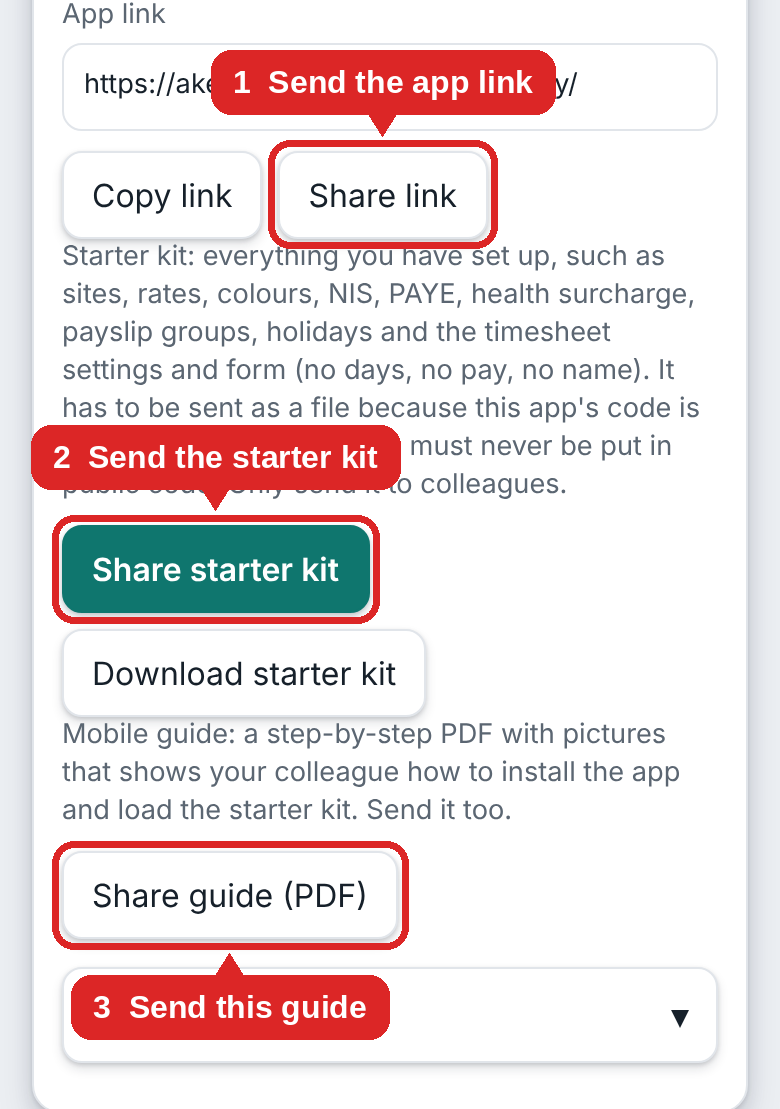
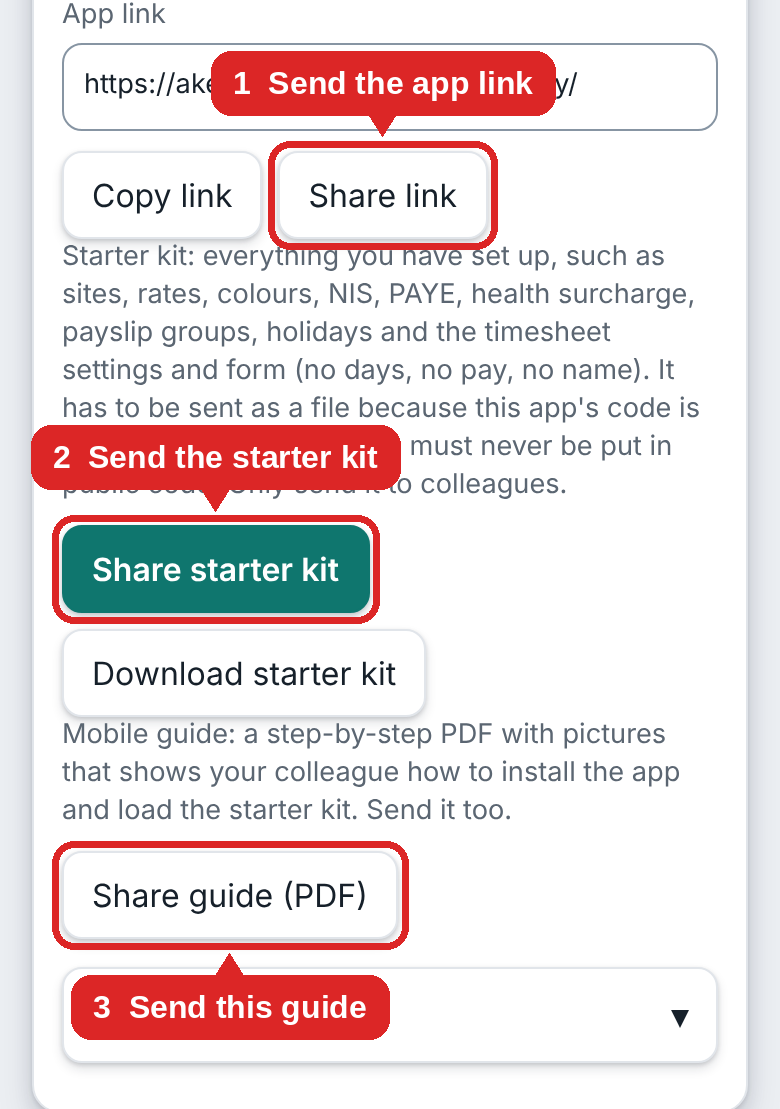
Settings: hide install help when installed, fold Share this app; no Close on day sheet; clearer pull handle (#24)
* Holiday / turnaround days read HOL/TAR in the list and on Home

* Timesheet: tick the sites and roles that go on the timesheet (and other jobs), edit the Client column text, press Save

* Menus pull down from their handle and title bar only; time picker uses AM/PM, hour and minute wheels (always saved as 24-hour)

* Payroll email says Good day; timesheet jobs show roles under each site, a read-out sentence, and a client-medic-everywhere option

Claude-Session: https://claude.ai/code/session_015B217MJCLoYGM2HCZFLF5v

* Time picker: smaller, softer time readout

Claude-Session: https://claude.ai/code/session_015B217MJCLoYGM2HCZFLF5v

* Share menu: starter kit tries .txt first (Android refuses .json); Send to payroll builds the file first, then opens the share menu with the email text

Claude-Session: https://claude.ai/code/session_015B217MJCLoYGM2HCZFLF5v

* Per-site 'Job requires lunch check' Yes/No (settings and Add site); No hides lunch options and pays the full time

Claude-Session: https://claude.ai/code/session_015B217MJCLoYGM2HCZFLF5v

* Colour picker: smaller round swatches in three rows, 12 more colours (existing sites keep theirs)

Claude-Session: https://claude.ai/code/session_015B217MJCLoYGM2HCZFLF5v

* Send to payroll: Download and share in one tap (saves to Downloads, stays on screen, opens the share menu); button becomes Share if the phone needs a second tap

Claude-Session: https://claude.ai/code/session_015B217MJCLoYGM2HCZFLF5v
[…]

diff --git a/src/styles.css b/src/styles.css
@@ -436,7 +436,7 @@ button.pill { min-height: 32px; padding: 0 12px; border-radius: 999px; font-size
 
 /* Sheets: grabber, footer, confirm */
 .grabber { width: 100%; height: 28px; margin: 0; cursor: grab; touch-action: none; display: flex; align-items: center; justify-content: center; }
-.grabber::after { content: ""; width: 40px; height: 5px; border-radius: 999px; background: var(--line); }
+.grabber::after { content: ""; width: 52px; height: 6px; border-radius: 999px; background: var(--field-edge); }
 .sheet .bar { touch-action: none; }
 .sheet { transition: transform 0.28s cubic-bezier(0.2, 0.8, 0.2, 1); overscroll-behavior: contain; }
 .sheet-footer {
@@ -910,7 +910,7 @@ button.close-site { justify-content: center; text-align: center; color: var(--ac
 @media (prefers-color-scheme: dark) {
   :root:not([data-theme="light"]) .sheet-backdrop { background: rgba(0, 0, 0, 0.68); }
   :root:not([data-theme="light"]) .sheet { --bg: #1c262e; --card: #26333d; --edge: #3c4b57; border-top: 1px solid #55646f; box-shadow: 0 -8px 30px rgba(0, 0, 0, 0.7); }
-  :root:not([data-theme="light"]) .grabber::after { background: #6b7a87; }
+  :root:not([data-theme="light"]) .grabber::after { background: #9aabb8; }
   :root:not([data-theme="light"]) .confirm-backdrop { background: rgba(0, 0, 0, 0.68); }
   :root:not([data-theme="light"]) .confirm { background: #1e2a33; border-color: #50606d; box-shadow: 0 0 0 1px rgba(255, 255, 255, 0.07), 0 14px 40px rgba(0, 0, 0, 0.7); }
 }
@@ -919,7 +919,7 @@ button.close-site { justify-content: center; text-align: center; color: var(--ac
 .confirm.payroll .link { display: block; margin: 4px 0 0; padding: 6px 0; }
 :root[data-theme="dark"] .sheet-backdrop { background: rgba(0, 0, 0, 0.68); }
 :root[data-theme="dark"] .sheet { --bg: #1c262e; --card: #26333d; --edge: #3c4b57; border-top: 1px solid #55646f; box-shadow: 0 -8px 30px rgba(0, 0, 0, 0.7); }
-:root[data-theme="dark"] .grabber::after { background: #6b7a87; }
+:root[data-theme="dark"] .grabber::after { background: #9aabb8; }
 
 .site-table h2 { margin-bottom: 6px; }
 .site-table [role="table"] { font-size: 0.8rem; }
@@ -950,3 +950,12 @@ button.close-site { justify-content: center; text-align: center; color: var(--ac
 .confirm .row.one { grid-template-columns: 1fr; }
 
 .site-btn { border: 1.5px solid var(--field-edge); }
+
+.share-app > summary { list-style: none; display: flex; align-items: center; justify-content: space-between; gap: 10px; min-height: 52px; cursor: pointer; }
+.share-app > summary::-webkit-details-marker { display: none; }
+.share-app .sa-title { display: grid; gap: 1px; }
+.share-app .sa-title small { color: var(--muted); font-size: 0.82rem; }
+.share-app .sa-more { color: var(--accent); font-weight: 600; font-size: 0.9rem; white-space: nowrap; }
+.share-app .sa-more::after { content: "More… ▾"; }
+.share-app[open] .sa-more::after { content: "Less ▴"; }
+.share-app[open] > summary { padding-bottom: 8px; margin-bottom: 8px; border-bottom: 1px solid var(--edge); }

diff --git a/src/screens/SettingsHub.tsx b/src/screens/SettingsHub.tsx
@@ -9,6 +9,7 @@ import { ConfirmDialog } from "../components/ConfirmDialog";
 import { newData, isCombined, userNameOf } from "../model";
 import { OtherJobsPayer, TaxSegment } from "../components/TaxMode";
 import { localDMY, todayISO } from "../format";
+import { isInstalledApp } from "../install";
 import { useStore } from "../store";
 import { useTheme, type ThemePref } from "../theme";
 import { PageHeader } from "../components/TopBar";
@@ -102,13 +103,21 @@ export function SettingsHub() {
     <>
       <PageHeader title="Settings" />
 
-      <h2 className="section-title">Install on your phone</h2>
-      <section className="card">
-        <InstallHelp />
-      </section>
+      {!isInstalledApp() && (
+        <>
+          <h2 className="section-title">Install on your phone</h2>
+          <section className="card">
+            <InstallHelp />
+          </section>
+        </>
+      )}
 
-      <h2 className="section-title">Share this app</h2>
-      <section className="card share-app">
+      {/* Folded up so it does not take the top of Settings; More... unfolds the link, starter kit and guide. */}
+      <details className="card share-app">
+        <summary>
+          <span className="sa-title"><strong>Share this app</strong><small>App link, starter kit and guide</small></span>
+          <span className="sa-more" aria-hidden="true" />
+        </summary>
         <p className="muted small">To give a colleague the app: send them the link, then send the starter kit file with your pay rates. On their first start the app asks for that file.</p>
         <label>App link
           <input readOnly aria-label="App link" value={link} onFocus={(e) => e.currentTarget.select()} />
@@ -130,7 +139,7 @@ export function SettingsHub() {
         {guideMessage && <p className="notice" role="status">{guideMessage}</p>}
         {sitesCount === 0 && <p className="muted small">Add your sites first, then the starter kit is ready to share.</p>}
         <ShareGuide link={link} />
-      </section>
+      </details>
 
       <h2 className="section-title">Your name</h2>
       <section className="card">

diff --git a/src/screens/DayEditor.tsx b/src/screens/DayEditor.tsx
@@ -183,9 +183,6 @@ export function DayEditor({ date, add, focus, onClose }: { date: string; add?: "
               <button onClick={() => { addJob(); setMode("edit"); }} disabled={siteNames.length === 0}>Add job</button>
               <button onClick={() => { addOther(); setMode("edit"); }}>Add other job</button>
             </div>
-            <div className="sheet-footer">
-              <button className="wide" onClick={leave}>Close</button>
-            </div>
           </>
         ) : (
           <>

diff --git a/guide/build_guide.py b/guide/build_guide.py
@@ -218,7 +218,7 @@ s.append(steps([
 s.append(Paragraph('<a name="p7"/>Part 7. Share the app with someone else', h1))
 s.append(Paragraph("To give a colleague the app you send them <b>three things</b> on WhatsApp: <b>1. the app link</b>, <b>2. the starter kit file</b> and <b>3. this guide</b>. All three buttons are in one place in the app, and you do it all from your phone.", ParagraphStyle("kw", parent=body, keepWithNext=1)))
 s.append(steps([
- ("Open <b>Settings</b> (the gear) and scroll to <b>Share this app</b>. The three buttons are here.", A("a-share"), 50),
+ ("Open <b>Settings</b> (the gear) and find <b>Share this app</b>. Tap it (or <b>More…</b>) to unfold it: the three buttons are inside. (The <b>Install on your phone</b> help at the top of Settings is hidden once the app is installed.)", A("a-share"), 50),
  ("<b>Send the link.</b> Tap <b>Share link</b>, pick <b>WhatsApp</b> and the person.", None),
  ("<b>Send the starter kit.</b> Tap <b>Share starter kit</b>, then <b>Yes, download and share</b>. The time is added to the saved file's name so it never clashes with an earlier copy.", Bs("b-share-ask"), 50),
  ("The share menu opens. Pick <b>WhatsApp</b> (or Gmail) and the same person, and send the file.", Bs("b-share-after"), 50),
